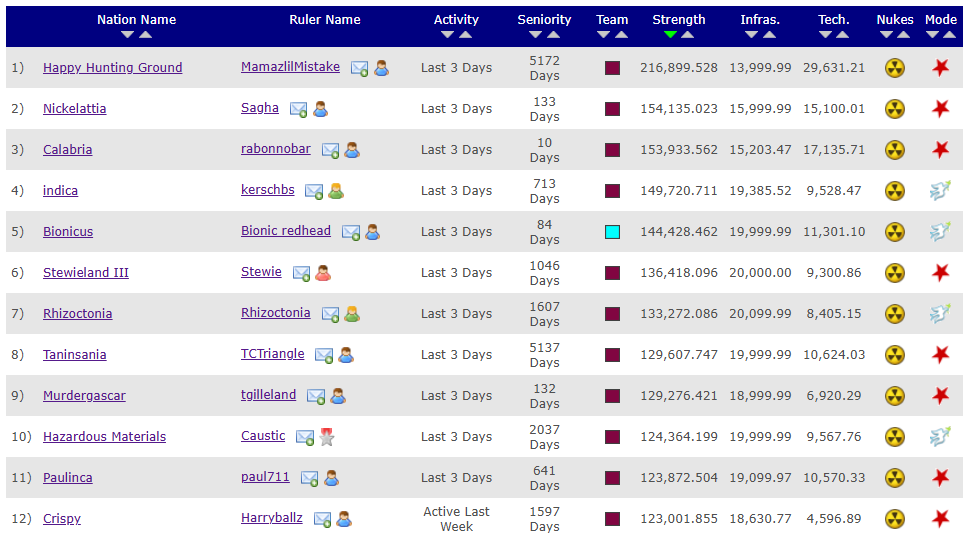
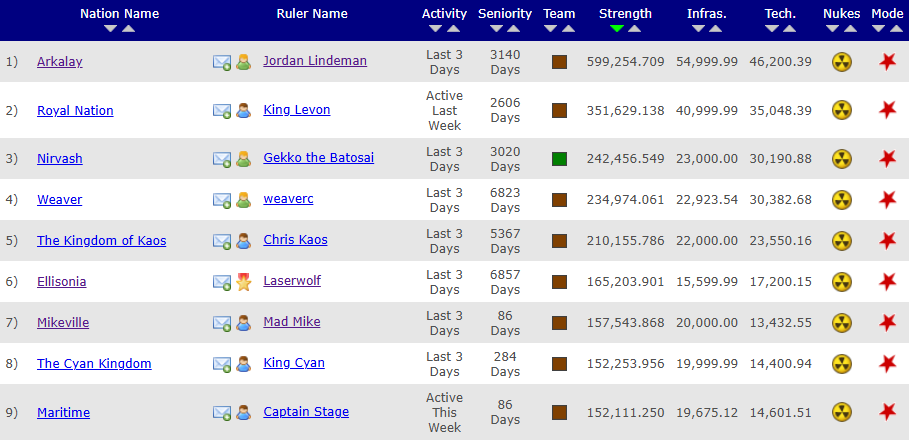
v1.8t | updated update logs for scripts.

diff --git a/userscripts/index.html b/userscripts/index.html
@@ -55,7 +55,7 @@
 
                 <div class="userscript-item">
                     <div class="userscript-header">
-                        <h3 class="userscript-name">CN Collect Advisor <span class="version">v1.1</span></h3>
+                        <h3 class="userscript-name">CN Collect Advisor <span class="version">v1.3</span></h3>
                         <div class="userscript-controls">
                             <a href="https://github.com/oh-ari/cn-collect/raw/refs/heads/main/collect.user.js" class="userscript-status script-url">Script URL</a>
                             <button class="update-log-toggle" onclick="toggleUpdateLog(this)">
@@ -95,9 +95,17 @@
                                 <div class="update-date">August 9th, 2025</div>
                                 <div class="update-message">Released 1.0 for TamperMonkey.</div>
                             </div>
-                            <div class="update-entry">
+                                                        <div class="update-entry">
                                 <div class="update-date">August 9th, 2025</div>
                                 <div class="update-message">1.1 added Crime Index and Trade Circle checks.</div>
+                            </div>
+                            <div class="update-entry">
+                                <div class="update-date">August 11th, 2025</div>
+                                <div class="update-message">1.3 adds the following:<br>
+• If below 110 tech, tells you to buy up for bonuses.<br>
+• Added Government & Religion checks.<br>
+• Now tells you which Government & Religion your nation wants for you. [Testing]<br>
+• If 0 GCs/LCs, a reminder is there so you don't forget to rebuy afterwards.</div>
                             </div>
                         </div>
                     </div>
@@ -105,7 +113,7 @@
 
                 <div class="userscript-item">
                     <div class="userscript-header">
-                        <h3 class="userscript-name">CN Rulers [Alliance View] <span class="version">v1.0</span></h3>
+                        <h3 class="userscript-name">CN Rulers [Alliance View] <span class="version">v1.2</span></h3>
                         <div class="userscript-controls">
                             <a href="https://github.com/oh-ari/cn-rulers/raw/refs/heads/main/cnRulers.user.js" class="userscript-status script-url">Script URL</a>
                             <button class="update-log-toggle" onclick="toggleUpdateLog(this)">
@@ -141,13 +149,19 @@
                                 <div class="update-date">August 9th, 2025</div>
                                 <div class="update-message">v1.0 released. It's honestly not that complex.</div>
                             </div>
+                            <div class="update-entry">
+                                <div class="update-date">August 11th, 2025</div>
+                                <div class="update-message">v1.2 adds the following:<br>
+• Moved icons to the left side of ruler names.<br>
+• Fixed icons/rulername being cutoff by expanding width of "Ruler Names" div.</div>
+                            </div>
                         </div>
                     </div>
                 </div>
             </div>
             <div class="userscript-item" style="margin-top: 2rem;">
                                  <div class="userscript-header">
-                     <h3 class="userscript-name">CN Modular <span class="version">v1.0 (technically beta)</span></h3>
+                     <h3 class="userscript-name">CN Modular <span class="version">v1.1</span></h3>
                      <div class="userscript-controls">
                          <a href="https://github.com/oh-ari/CN-Modular/raw/refs/heads/main/modularCN.user.js" class="userscript-status script-url">Script URL</a>
                          <button class="update-log-toggle" onclick="toggleUpdateLog(this)">
@@ -187,12 +201,18 @@
                             <div class="update-date">August 9th, 2025</div>
                             <div class="update-message">I found it again and just need to polish it, I think.</div>
                         </div>
-                        <div class="update-entry">
-                            <div class="update-date">August 11th, 2025</div>
-                            <div class="update-message">Released 1.0 for TamperMonkey.</div>
-                        </div>
-                    </div>
-                </div>
+                                                 <div class="update-entry">
+                             <div class="update-date">August 11th, 2025</div>
+                             <div class="update-message">Released 1.0 for TamperMonkey.</div>
+                         </div>
+                         <div class="update-entry">
+                             <div class="update-date">August 11th, 2025</div>
+                             <div class="update-message">v1.1 adds the following:<br>
+• Fixed issue with modular affecting subrows in tables, creating a very weird nation page.<br>
+• Simplified some functions.</div>
+                         </div>
+                     </div>
+                 </div>
             </div>
         </main>
     </div>
